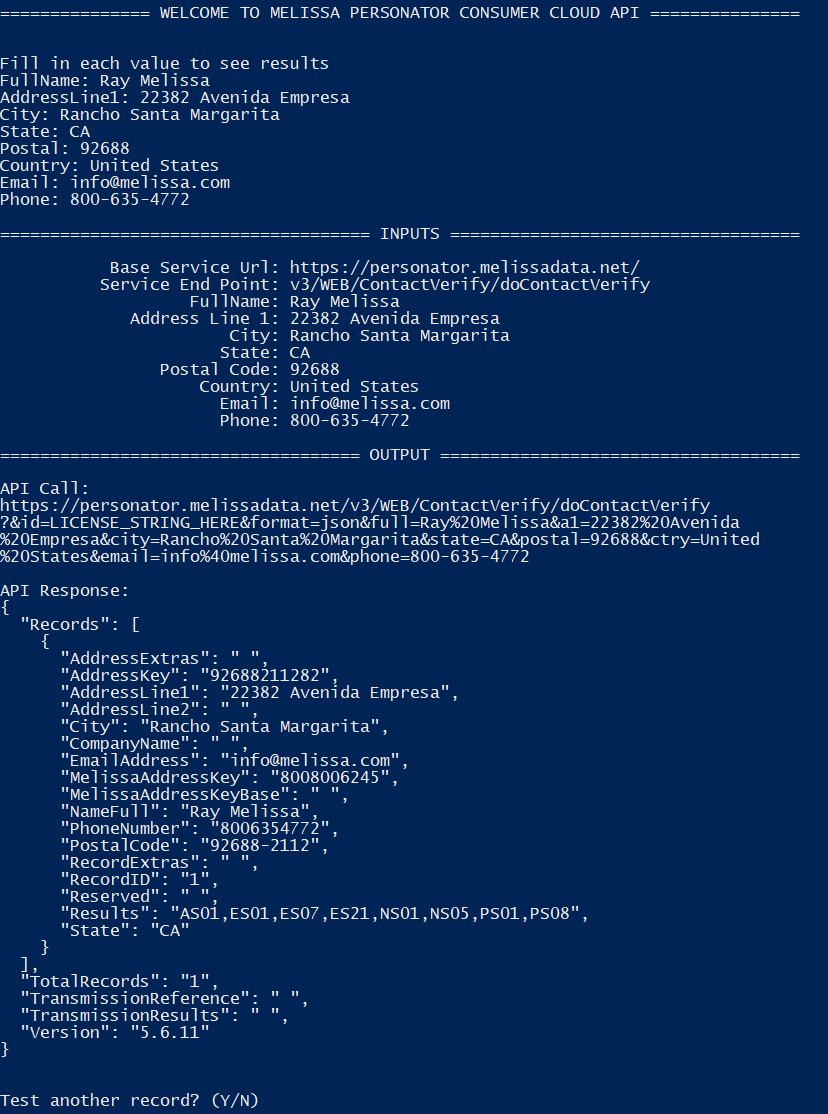
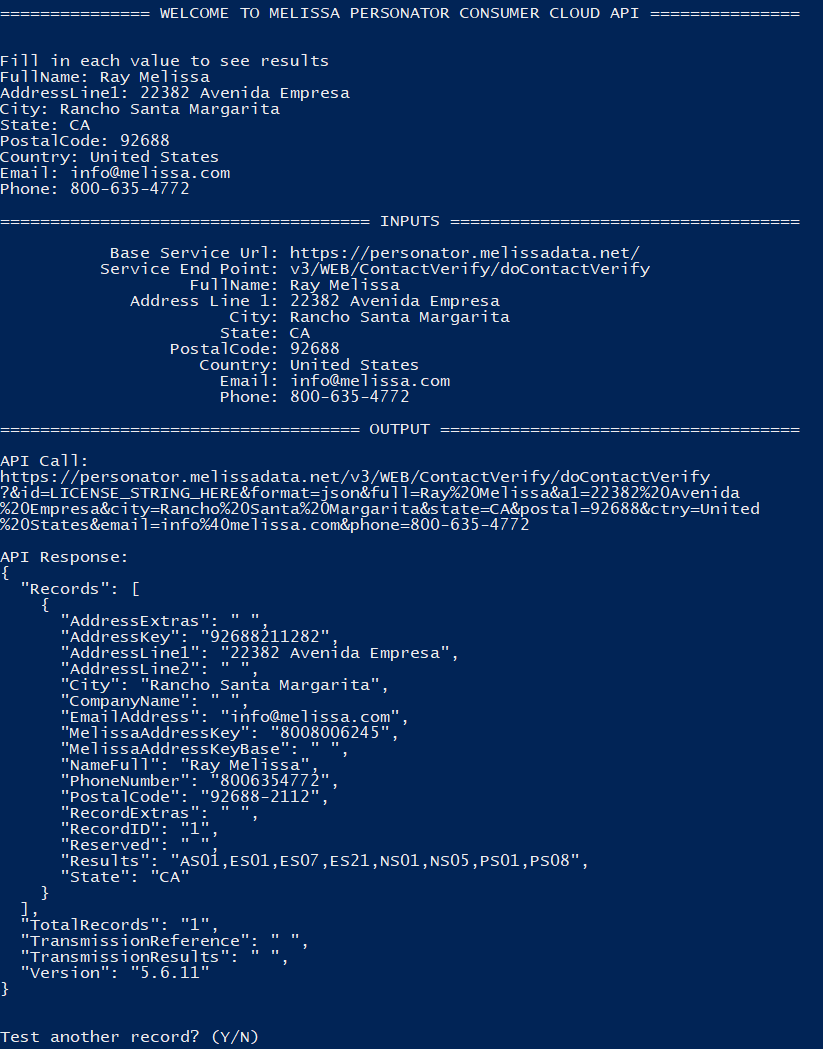
Add bash script for Melissa Personator Consumer Cloud API

Changed region(s): [[0.0, 0.0, 0.9721, 0.9457], [0.0, 0.9762, 0.3341, 1.0]]

diff --git a/PersonatorConsumerDotnet/Program.cs b/PersonatorConsumerDotnet/Program.cs
@@ -1,6 +1,7 @@
 using Newtonsoft.Json;
+using System.Security.Cryptography;
 
-namespace PersonatorConsumer
+namespace PersonatorConsumerDotnet
 {
   static class Program
   {
@@ -107,7 +108,7 @@ namespace PersonatorConsumer
       // Print output
       Console.WriteLine("\n==================================== OUTPUT ====================================\n");
       
-      Console.WriteLine("API Call: "); 
+      Console.WriteLine("API Call: ");
       string APICall = Path.Combine(baseServiceUrl, requestQuery);
       for (int i = 0; i < APICall.Length; i += 70)
       {
@@ -159,7 +160,7 @@ namespace PersonatorConsumer
           Console.Write("State: ");
           inputState = Console.ReadLine();
 
-          Console.Write("Postal: ");
+          Console.Write("PostalCode: ");
           inputPostal = Console.ReadLine();
 
           Console.Write("Country: ");
@@ -214,7 +215,7 @@ namespace PersonatorConsumer
 
           if (string.IsNullOrEmpty(inputPostal))
           {
-            Console.Write("Postal: ");
+            Console.Write("PostalCode: ");
             inputPostal = Console.ReadLine();
           }
 
@@ -257,7 +258,7 @@ namespace PersonatorConsumer
         Console.WriteLine($"\t     Address Line 1: {inputAddressLine1}");
         Console.WriteLine($"\t               City: {inputCity}");
         Console.WriteLine($"\t              State: {inputState}");
-        Console.WriteLine($"\t        Postal Code: {inputPostal}");
+        Console.WriteLine($"\t         PostalCode: {inputPostal}");
         Console.WriteLine($"\t            Country: {inputCountry}");
         Console.WriteLine($"\t              Email: {inputEmail}");
         Console.WriteLine($"\t              Phone: {inputPhone}");

diff --git a/README.md b/README.md
@@ -1,4 +1,4 @@
-# Melissa - Personator Consumer Cloud API
+# Melissa - Personator Consumer Cloud API Dotnet
 
 ## Purpose
 This code showcases the Melissa Personator Consumer Cloud API using C#.
@@ -40,13 +40,22 @@ And return information of the person such as:
 - State
 
 ## Tested Environments
-- Windows 64-bit .NET 7.0
+- Windows 10 64-bit .NET 7.0, Powershell 5.1
+- Ubuntu Linux 20.04.04 LTS 64-bit .NET 7.0
 - Personator Consumer Cloud API Version 5.6.11
 
 ## Getting Started
 These instructions will get you a copy of the project up and running on your local machine for development and testing purposes.
 
-### Install the Dotnet Core SDK
+### Download this project
+```
+$ git clone https://github.com/MelissaData/PersonatorConsumer-Dotnet
+$ cd PersonatorConsumer-Dotnet
+```
+
+## Windows
+
+#### Install the Dotnet Core SDK
 Before starting, make sure that the .NET 7.0 SDK has been correctly installed on your machine (If you have Visual Studio installed, you most likely have it already). If you are unsure, you can check by opening a command prompt window and typing the following:
 
 `dotnet --list-sdks`
@@ -69,14 +78,7 @@ Click and download the `x64` SDK installer for your operating system.
 
 Once clicked, your web browser will begin downloading an installer for the SDK. Run the installer and follow all of the prompts to complete the installation (your computer may ask you to restart before you can continue). Once all of that is done, you should be able to verify that the SDK is installed with the `dotnet --list-sdks` command.
 
-
-### Download this project
-```
-$ git clone https://github.com/MelissaData/PersonatorConsumer-Dotnet.git
-$ cd PersonatorConsumer-Dotnet
-```
-
-## Run Powershell Script
+#### Run Powershell Script
 Parameters:
 - -fullname: an input full name
 - -addressline1: an input address line 1
@@ -87,7 +89,7 @@ Parameters:
 - -email: an input email
 - -phone: an input phone number
  	
-  This is convenient when you want to get results for a specific person in one run instead of testing multiple records in interactive mode.  
+  This is convenient when you want to get results for a specific request in one run instead of testing multiple records in interactive mode.  
 
 - -license (optional): a license string to test the Cloud API
 
@@ -97,23 +99,89 @@ There are two modes:
 
 	The script will prompt the user for input(s), then use the provided input(s) to call the Cloud API. For example:
 	```
-	$ .\PersonatorConsumer.ps1
+	$ .\PersonatorConsumerDotnet.ps1
 	```
 
 - Command Line 
 
 	You can pass a full name, address line 1, city, state, postal code, country, email, phone, and license string into `-fullname`, `-addressline1`, `-city`, `-state`, `-postal`, `-country`, `-email`, `-phone`, and `-license` parameters respectively to test the Cloud API. For example: 
 	```
-    $ .\PersonatorConsumer.ps1 -fullname "Ray Melissa" -addressline1 "22382 Avenida Empresa" -city "Rancho Santa Margarita" -state "CA" -postal "92688" -country "United States" -email "info@melissa.com" -phone "800-635-4772"
-    $ .\PersonatorConsumer.ps1 -fullname "Ray Melissa" -addressline1 "22382 Avenida Empresa" -city "Rancho Santa Margarita" -state "CA" -postal "92688" -country "United States" -email "info@melissa.com" -phone "800-635-4772" -license "<your_license_string>"
+    $ .\PersonatorConsumerDotnet.ps1 -fullname "Ray Melissa" -addressline1 "22382 Avenida Empresa" -city "Rancho Santa Margarita" -state "CA" -postal "92688" -country "United States" -email "info@melissa.com" -phone "800-635-4772"
+    $ .\PersonatorConsumerDotnet.ps1 -fullname "Ray Melissa" -addressline1 "22382 Avenida Empresa" -city "Rancho Santa Margarita" -state "CA" -postal "92688" -country "United States" -email "info@melissa.com" -phone "800-635-4772" -license "<your_license_string>"
     ```
 	
 This is the expected output from a successful setup for interactive mode:
 
 ![alt text](/screenshots/output.png)
 
+## Linux
+
+#### Install the Dotnet Core SDK
+Before starting, check to see if you already have the .NET 7.0 SDK already installed by entering this command:
+
+`dotnet --list-sdks`
+
+If the .NET 7.0 SDK is already installed, you should see it in the following list:
+
+![alt text](/screenshots/dotnet_output2.png)
+
+As long as the above list contains version `7.0.xxx` (underlined in red), then you can skip to the next step. If your list does not contain version 7.0, or you get any kind of error message, then you will need to download and install the .NET 7.0 SDK.
+
+To download, run the following commands to add the Microsoft package signing key to your list of trusted keys and add the package repository.
+
+```
+wget https://packages.microsoft.com/config/ubuntu/20.04/packages-microsoft-prod.deb -O packages-microsoft-prod.deb
+sudo dpkg -i packages-microsoft-prod.deb
+rm packages-microsoft-prod.deb
+```
+
+Next, you can now run this command to install the .NET 7.0 SDK:
+
+```
+sudo apt-get update && \
+  sudo apt-get install -y dotnet-sdk-7.0
+```
+
+Once all of this is done, you should be able to verify that the SDK is installed with the `dotnet --list-sdks` command.
+
+#### Run Bash Script
+Parameters:
+- --fullname: an input full name
+- --addressline1: an input address line 1
+- --city: an input city
+- --state: an input state
+- --postal: an input postal code
+- --country: an input country
+- --email: an input email
+- --phone: an input phone number
+
+  This is convenient when you want to get results for a specific request in one run instead of testing multiple records in interactive mode.  
+
+- --license (optional): a license string to test the Cloud API
+
+There are two modes:
+
+- Interactive 
+
+	The script will prompt the user for input(s), then use the provided input(s) to call the Cloud API. For example:
+	```
+	$ ./PersonatorConsumerDotnet.sh
+	```
+
+- Command Line 
+
+	You can pass a full name, address line 1, city, state, postal code, country, email, phone, and license string into `--fullname`, `--addressline1`, `--city`, `--state`, `--postal`, `--country`, `--email`, `--phone`, and `--license` parameters respectively to test the Cloud API. For example: 
+	```
+    $ ./PersonatorConsumerDotnet.sh --fullname "Ray Melissa" --addressline1 "22382 Avenida Empresa" --city "Rancho Santa Margarita" --state "CA" --postal "92688" --country "United States" --email "info@melissa.com" --phone "800-635-4772"
+    $ ./PersonatorConsumerDotnet.sh --fullname "Ray Melissa" --addressline1 "22382 Avenida Empresa" --city "Rancho Santa Margarita" --state "CA" --postal "92688" --country "United States" --email "info@melissa.com" --phone "800-635-4772" --license "<your_license_string>"
+    ```
+
+This is the expected output from a successful setup for interactive mode:
+
+![alt text](/screenshots/output2.png)
+
 ## Result Codes
-For details about the result codes please refer to https://wiki.melissadata.com/index.php?title=Result_Code_Details#Personator_Identity 
+For details about the result codes please refer to https://wiki.melissadata.com/index.php?title=Result_Code_Details#Personator_Consumer
 
 ## Contact Us
 For free technical support, please call us at 800-MELISSA ext. 4 (800-635-4772 ext. 4) or email us at tech@melissa.com.
